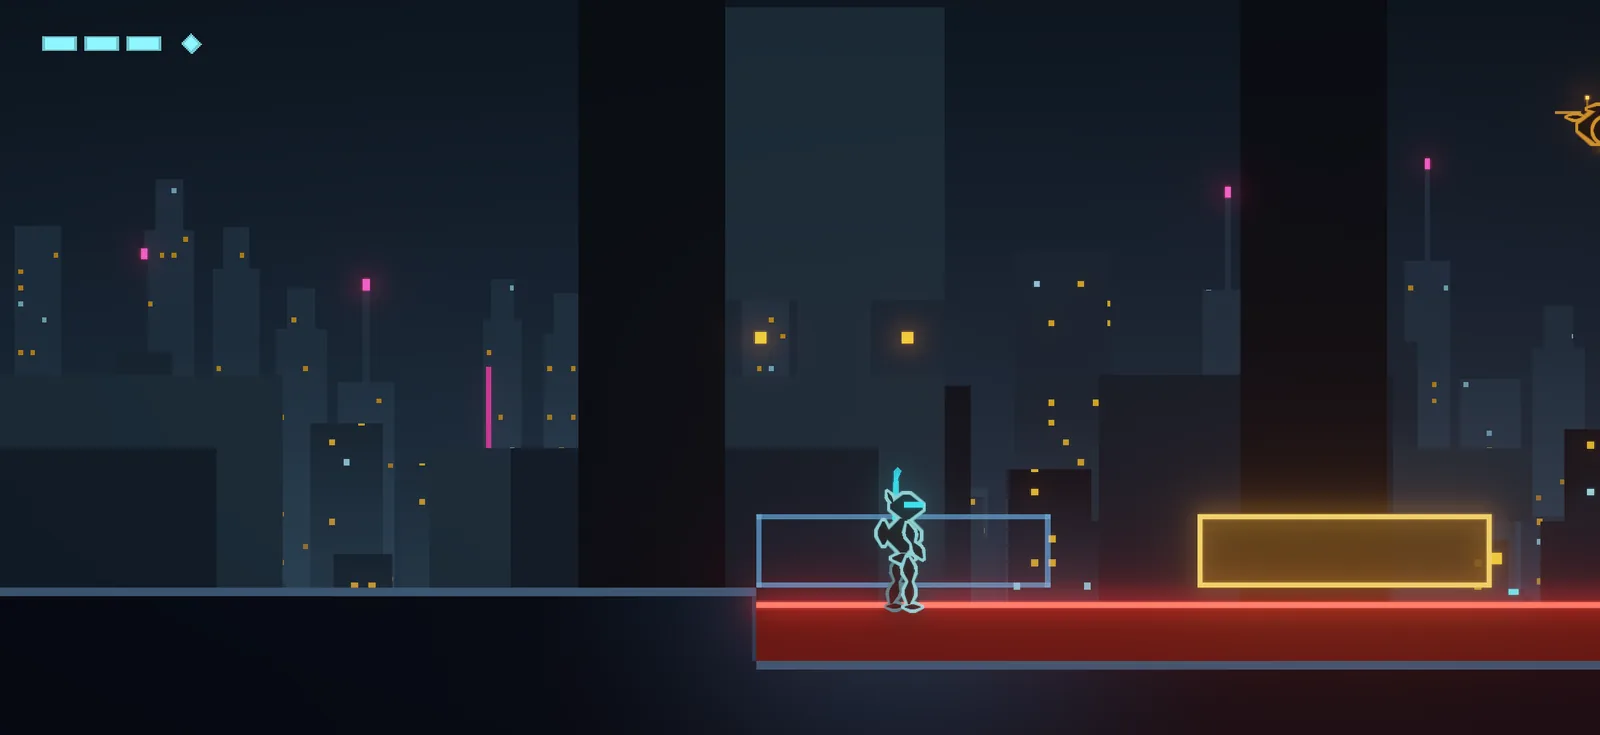
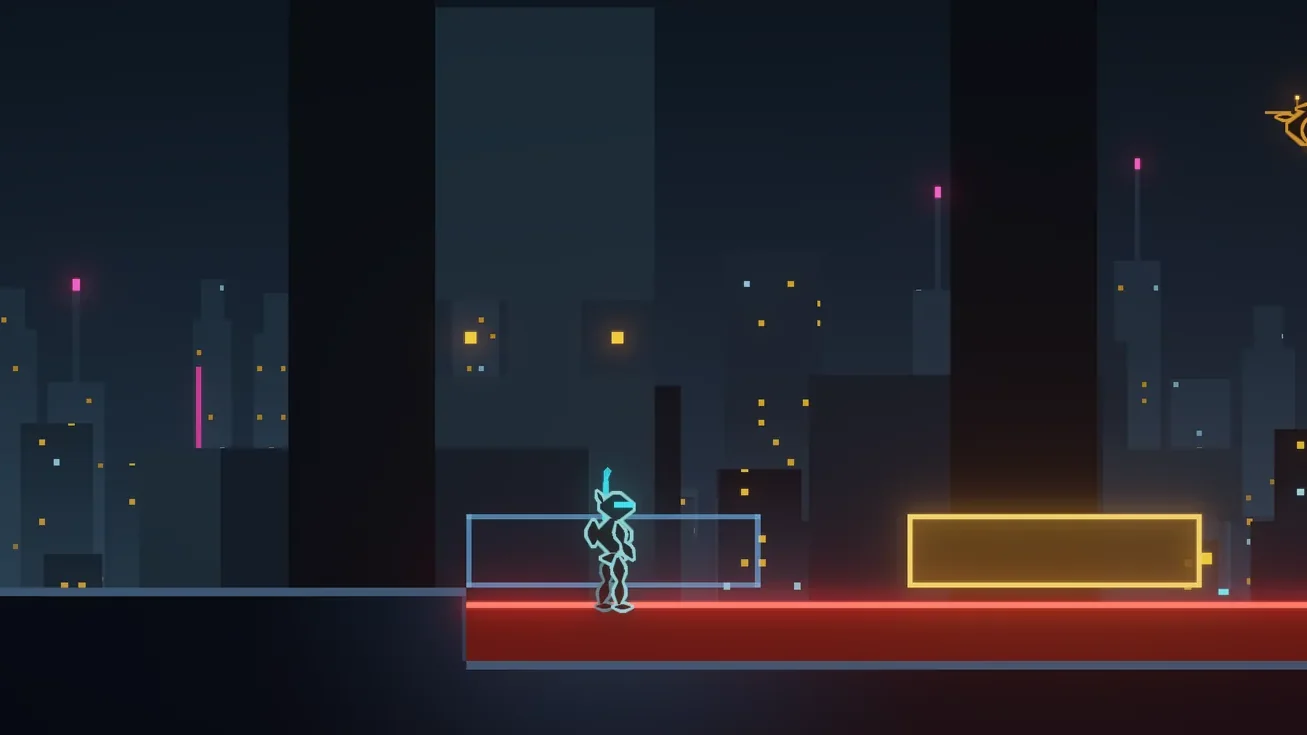
Fracture 소개 페이지 리뉴얼 — 갤러리 16:9 정리, 설치 프로그램 안내, 편의 기능 · 패드 조작표, 접히는 릴리스 노트
- 갤러리: 전부 16:9로 잘라 검은 띠 없앰, 캐릭터 시트(lineup) · 빈 대사 상자가 찍힌 s_camp 뺌,
  첫 장을 히어로와 다른 장면(에코 헌터)으로, 화면과 어긋난 설명(장치 "가동") 고침,
  "0.9.4부터 적 · 보스 그림이 바뀜" 안내
- 받기: zip 안내 → 설치 프로그램 + 게임 안 업데이트(0.9.5부터), zip판은 릴리스 페이지로
- 편의 기능 절(자동 저장 · 게임 안 업데이트 · 키 바꾸기/패드 · 흔들림/번쩍임 · 화면비 · 언어 — 0.9.5에 있는 것만)
- 조작표에 게임패드 열(Xbox 이름, PlayStation 자리 안내), 휴대폰에서는 한 줄 두 단
- 릴리스 노트는 420px에서 접고 "전체 보기"
- 사이드바 중복 캡슐 그림 뺌, 업데이트 · 첫 공개 날짜, 화면 · 인터넷 요구 사항
- "첫 공개 베타" → "공개 베타"(카드 배너 포함)

Claude-Session: https://claude.ai/code/session_01VvaDwK54oNa3WgBqgi2gJD

diff --git a/p/fracture/index.html b/p/fracture/index.html
@@ -4,9 +4,9 @@
 <meta charset="utf-8">
 <meta name="viewport" content="width=device-width, initial-scale=1">
 <title>Fracture · 2D 메트로배니아</title>
-<meta name="description" content="되돌리려다, 시간을 부숴 버렸다. 시간을 건너뛰고 멈추고 되감으며 무너진 기계도시를 가로지르는 2D 플랫포머 메트로배니아. Windows용 첫 공개 베타.">
+<meta name="description" content="되돌리려다, 시간을 부숴 버렸다. 시간을 건너뛰고 멈추고 되감으며 무너진 기계도시를 가로지르는 2D 플랫포머 메트로배니아. Windows용 공개 베타, 무료.">
 <meta property="og:type" content="website">
-<meta property="og:title" content="Fracture — 첫 공개 베타">
+<meta property="og:title" content="Fracture — 공개 베타">
 <meta property="og:description" content="되돌리려다, 시간을 부숴 버렸다. 시간을 건너뛰고 멈추고 되감으며 무너진 기계도시를 가로지르는 2D 메트로배니아.">
 <meta property="og:image" content="https://yh-yeop.github.io/assets/fracture/og.jpg">
 <meta property="og:url" content="https://yh-yeop.github.io/p/fracture/">
@@ -39,14 +39,14 @@
 
 <header class="hero">
   <div class="wrap hero-inner">
-    <p class="kicker">2D 플랫포머 · 메트로배니아 <span class="badge">첫 공개 베타</span></p>
+    <p class="kicker">2D 플랫포머 · 메트로배니아 <span class="badge">공개 베타</span></p>
     <h1 class="logo" data-text="FRACTURE">FRACTURE</h1>
     <p class="tagline">되돌리려다, 시간을 부숴 버렸다.</p>
     <p class="lede">시간을 건너뛰고, 멈추고, 되감으며 무너진 기계도시를 가로지른다.</p>
     <div class="cta">
       <a class="btn primary big" id="dl-hero" href="https://github.com/yh-yeop/releases/releases?q=Fracture">
         <svg viewBox="0 0 24 24" fill="none" stroke="currentColor" stroke-width="2" stroke-linecap="round" stroke-linejoin="round" aria-hidden="true"><path d="M12 4v11M7 10l5 5 5-5M5 20h14"/></svg>
-        <span>베타 받기 <small id="dl-hero-meta">Windows</small></span>
+        <span>베타 받기 <small id="dl-hero-meta">Windows 설치 프로그램</small></span>
       </a>
       <a class="btn ghost big" href="#media">스크린샷 보기</a>
     </div>
@@ -61,7 +61,7 @@
       <h2 id="media-h" class="sr-only">스크린샷</h2>
       <div class="viewer">
         <button class="shot-main" type="button" id="shot-open" aria-label="크게 보기">
-          <img id="shot-img" src="../../assets/fracture/p_chase2.webp" alt="" width="1600" height="727">
+          <img id="shot-img" src="../../assets/fracture/echo_warn.webp" alt="" width="1600" height="900">
         </button>
         <button class="nav prev" type="button" id="shot-prev" aria-label="이전 스크린샷">
           <svg viewBox="0 0 24 24" fill="none" stroke="currentColor" stroke-width="2.4" stroke-linecap="round" stroke-linejoin="round" aria-hidden="true"><path d="M15 6l-6 6 6 6"/></svg>
@@ -72,7 +72,7 @@
       </div>
       <p class="caption" id="shot-caption" aria-live="polite"></p>
       <div class="thumbs" id="thumbs" role="group" aria-label="스크린샷 고르기"></div>
-      <p class="shot-note">개발 중 화면입니다. 베타의 실제 화면과 다를 수 있습니다.</p>
+      <p class="shot-note">0.9.2 베타 때의 화면입니다. 0.9.4부터 적과 보스를 플레이어와 같은 그림체로 다시 그려서, 지금 베타와는 적의 모습이 다릅니다.</p>
     </section>
 
     <section aria-labelledby="about-h" data-embed>
@@ -118,19 +118,34 @@
       </ul>
     </section>
 
+    <section aria-labelledby="qol-h">
+      <h2 id="qol-h">편의 기능</h2>
+      <ul class="qol">
+        <li><b>자동 저장</b> 각 장의 시작과 보스방에 들어설 때 저장되고, 타이틀의 <b>이어하기</b>로 그 자리부터 다시 시작합니다.</li>
+        <li><b>게임 안 업데이트</b> 새 버전이 나오면 타이틀에 <b>업데이트</b>가 뜹니다. 누르면 받아서 설치하고 다시 켭니다.</li>
+        <li><b>키 바꾸기 · 게임패드</b> 모든 조작 키를 설정에서 바꿀 수 있고, 메뉴까지 게임패드만으로 다룰 수 있습니다.</li>
+        <li><b>화면 흔들림 · 번쩍임</b> 둘 다 0~100%로 줄이거나 끌 수 있습니다.</li>
+        <li><b>화면</b> 전체 화면과 창 모드, 창 크기를 고릅니다. 16:9가 아닌 화면에서는 위아래나 양옆을 비워 16:9로 맞춥니다.</li>
+        <li><b>언어</b> 한국어와 영어.</li>
+      </ul>
+    </section>
+
     <section aria-labelledby="ctrl-h">
       <h2 id="ctrl-h">조작</h2>
       <div class="controls">
-        <dl>
-          <div><dt>이동</dt><dd><kbd>W</kbd><kbd>A</kbd><kbd>S</kbd><kbd>D</kbd> <span class="or">또는</span> 방향키</dd></div>
-          <div><dt>점프</dt><dd><kbd>Space</kbd></dd></div>
-          <div><dt>시간 도약 (대시)</dt><dd><kbd>Shift</kbd></dd></div>
-          <div><dt>공격 · 탄 반사</dt><dd><kbd>마우스 왼쪽</kbd> <span class="or">또는</span> <kbd>J</kbd></dd></div>
-          <div><dt>시간 앵커</dt><dd><kbd>마우스 오른쪽</kbd> <span class="or">또는</span> <kbd>K</kbd></dd></div>
-          <div><dt>상호작용</dt><dd><kbd>E</kbd></dd></div>
-          <div><dt>일시정지</dt><dd><kbd>Esc</kbd></dd></div>
-        </dl>
-        <p class="ctrl-note">게임 중 되찾는 능력의 키는 처음 얻을 때 안내 카드로 알려 줍니다. 조작 키는 설정에서 바꿀 수 있고, 게임패드도 지원합니다.</p>
+        <table>
+          <thead><tr><th scope="col">동작</th><th scope="col">키보드 · 마우스</th><th scope="col">게임패드</th></tr></thead>
+          <tbody>
+            <tr><th scope="row">이동</th><td><kbd>W</kbd><kbd>A</kbd><kbd>S</kbd><kbd>D</kbd> <span class="or">또는</span> 방향키</td><td>왼쪽 스틱 <span class="or">또는</span> 방향 패드</td></tr>
+            <tr><th scope="row">점프</th><td><kbd>Space</kbd></td><td><kbd>A</kbd></td></tr>
+            <tr><th scope="row">시간 도약 (대시)</th><td><kbd>Shift</kbd></td><td><kbd>X</kbd> <span class="or">또는</span> <kbd>RT</kbd></td></tr>
+            <tr><th scope="row">공격 · 탄 반사</th><td><kbd>마우스 왼쪽</kbd> <span class="or">또는</span> <kbd>J</kbd></td><td><kbd>Y</kbd> <span class="or">또는</span> <kbd>RB</kbd></td></tr>
+            <tr><th scope="row">시간 앵커</th><td><kbd>마우스 오른쪽</kbd> <span class="or">또는</span> <kbd>K</kbd></td><td><kbd>LB</kbd></td></tr>
+            <tr><th scope="row">상호작용</th><td><kbd>E</kbd></td><td><kbd>B</kbd></td></tr>
+            <tr><th scope="row">일시정지</th><td><kbd>Esc</kbd></td><td><kbd>Start</kbd></td></tr>
+          </tbody>
+        </table>
+        <p class="ctrl-note">게임패드 버튼은 Xbox 이름입니다. PlayStation 패드는 같은 자리 버튼(A ×, B ○, X □, Y △)을 쓰세요. 게임 중 되찾는 능력의 키는 처음 얻을 때 안내 카드로 알려 줍니다.</p>
       </div>
     </section>
 
@@ -139,15 +154,11 @@
       <div class="notes" id="notes">
         <p class="muted">불러오는 중…</p>
       </div>
+      <button class="btn more" type="button" id="notes-more" aria-controls="notes" aria-expanded="false" hidden>릴리스 노트 전체 보기</button>
     </section>
   </div>
 
   <aside class="col-side" aria-label="게임 정보">
-    <div class="panel capsule">
-      <img src="../../assets/fracture/device_overload-t.webp" alt="" width="400" height="184" loading="lazy">
-      <p>시간 간섭 실험에서 탈주한 실험체 001이 무너진 시간 속에서 기계도시를 가로지르는 2D 플랫포머 메트로배니아.</p>
-    </div>
-
     <div class="panel download" id="download">
       <h2>베타 받기</h2>
       <a class="btn primary block" id="dl-side" href="https://github.com/yh-yeop/releases/releases?q=Fracture">
@@ -155,12 +166,13 @@
         <span id="dl-side-label">Windows용 받기</span>
       </a>
       <ol class="steps">
-        <li>zip을 받아 압축을 풉니다.</li>
-        <li>폴더 안의 <code>Fracture.exe</code>를 실행합니다.</li>
+        <li>설치 프로그램을 받아 실행합니다. 관리자 권한은 필요 없습니다.</li>
+        <li>시작 메뉴(원하면 바탕화면)의 <b>Fracture</b>로 실행합니다.</li>
       </ol>
-      <p class="small">설치 프로그램과 자동 업데이트는 없습니다. 서명하지 않은 실행 파일이라 SmartScreen 경고가 뜨면 <b>추가 정보 → 실행</b>을 누르세요.</p>
+      <p class="small">한 번 설치하면 다음 버전부터는 게임 안에서 업데이트됩니다. 서명하지 않은 설치 파일이라 SmartScreen 경고가 뜨면 <b>추가 정보 → 실행</b>을 누르세요.</p>
+      <p class="small">설치 없이 쓰는 zip판도 <a id="rel-zip" href="https://github.com/yh-yeop/releases/releases?q=Fracture">릴리스 페이지</a>에 있습니다(게임 안 업데이트는 안 됨).</p>
       <div class="sha" id="sha" hidden>
-        <span class="small">SHA-256</span>
+        <span class="small">설치 파일 SHA-256</span>
         <code id="sha-val"></code>
         <button class="btn tiny" type="button" id="sha-copy">복사</button>
       </div>
@@ -170,8 +182,9 @@
     <div class="panel">
       <dl class="info">
         <div><dt>장르</dt><dd>2D 플랫포머 · 메트로배니아</dd></div>
-        <div><dt>버전</dt><dd id="info-ver">0.9.0 베타</dd></div>
-        <div><dt>공개일</dt><dd id="info-date">2026년 11월 2일</dd></div>
+        <div><dt>버전</dt><dd id="info-ver">0.9.5 베타</dd></div>
+        <div><dt>업데이트</dt><dd id="info-date">2026년 11월 9일</dd></div>
+        <div><dt>첫 공개</dt><dd>2026년 11월 2일</dd></div>
         <div><dt>개발</dt><dd><a href="../../">yeop</a></dd></div>
         <div><dt>엔진</dt><dd>Unity 6</dd></div>
         <div><dt>언어</dt><dd>한국어, 영어</dd></div>
@@ -187,6 +200,8 @@
       <dl class="info">
         <div><dt>운영체제</dt><dd>Windows 10 / 11 (64비트)</dd></div>
         <div><dt>입력</dt><dd>키보드 · 마우스, 게임패드</dd></div>
+        <div><dt>화면</dt><dd>16:9 기준, 다른 비율은 여백으로 맞춤</dd></div>
+        <div><dt>인터넷</dt><dd>필요 없음 (새 버전 확인에만 씀)</dd></div>
       </dl>
     </div>
 
@@ -195,6 +210,7 @@
       <ul class="small plain">
         <li>프롤로그부터 엔딩까지 전부 들어 있습니다.</li>
         <li>보스 난이도와 예고 시간은 계속 다듬는 중입니다.</li>
+        <li>진행은 각 장의 시작과 보스방에서 저장됩니다. 장 중간에 끄면 그 장의 처음(또는 보스전)부터 이어집니다.</li>
         <li><kbd>F3</kbd>은 개발용 디버그 창입니다. 정상 진행에는 필요 없습니다.</li>
       </ul>
     </div>

diff --git a/p/fracture/fracture.css b/p/fracture/fracture.css
@@ -106,7 +106,7 @@ h2 small { font-weight: 500; color: var(--muted); font-size: .875rem; margin-lef
 /* gallery */
 .viewer { position: relative; border-radius: var(--radius); overflow: hidden; background: #000; border: 1px solid var(--line); }
 .shot-main { display: block; width: 100%; padding: 0; border: 0; background: #000; cursor: zoom-in; aspect-ratio: 16 / 9; }
-.shot-main img { width: 100%; height: 100%; object-fit: contain; display: block; }
+.shot-main img { width: 100%; height: 100%; object-fit: cover; display: block; }
 .nav {
   position: absolute; top: 50%; transform: translateY(-50%); width: 44px; height: 44px; border-radius: 50%;
   display: grid; place-items: center; border: 1px solid rgba(255,255,255,.25); background: rgba(8,11,22,.6); color: #fff; cursor: pointer;
@@ -137,12 +137,19 @@ h2 small { font-weight: 500; color: var(--muted); font-size: .875rem; margin-lef
 .features h3 { margin: 0 0 4px; font-size: 1.0625rem; }
 .features p { margin: 0; color: var(--muted); font-size: .9375rem; }
 
+/* convenience */
+.qol { list-style: none; margin: 0; padding: 0; display: grid; grid-template-columns: repeat(2, minmax(0, 1fr)); gap: 0 28px; }
+.qol li { padding: 12px 0; border-top: 1px solid var(--line); color: var(--muted); font-size: .9375rem; }
+.qol li > b:first-child { display: block; color: var(--text); font-size: 1rem; margin-bottom: 2px; }
+.qol li b { color: var(--text); }
+
 /* controls */
 .controls { padding: 18px; border-radius: var(--radius); background: var(--panel); border: 1px solid var(--line); }
-.controls dl { margin: 0; display: grid; grid-template-columns: repeat(2, minmax(0, 1fr)); gap: 10px 24px; }
-.controls dl div { display: flex; justify-content: space-between; align-items: center; gap: 12px; flex-wrap: wrap; padding-bottom: 10px; border-bottom: 1px solid var(--line); }
-.controls dt { color: var(--muted); font-size: .9375rem; }
-.controls dd { margin: 0; text-align: right; }
+.controls table { width: 100%; border-collapse: collapse; font-size: .9375rem; }
+.controls thead th { text-align: left; font-size: .8125rem; font-weight: 600; color: var(--muted); padding: 0 8px 8px 0; border-bottom: 1px solid var(--line); }
+.controls tbody th { text-align: left; font-weight: 500; color: var(--muted); white-space: nowrap; }
+.controls tbody th, .controls td { padding: 8px 8px 8px 0; border-bottom: 1px solid var(--line); vertical-align: middle; }
+.controls tbody tr:last-child > * { border-bottom: 0; }
 .or { color: var(--muted); font-size: .8125rem; margin: 0 2px; }
 .ctrl-note { margin: 14px 0 0; font-size: .875rem; color: var(--muted); }
 
@@ -156,14 +163,14 @@ h2 small { font-weight: 500; color: var(--muted); font-size: .875rem; margin-lef
 .notes ul, .notes ol { padding-left: 1.4em; }
 .notes code { background: #1a2238; padding: .1em .35em; border-radius: 4px; overflow-wrap: anywhere; }
 .notes .octicon { display: none; }
+.notes.folded { max-height: 420px; overflow: hidden; position: relative;
+  -webkit-mask-image: linear-gradient(180deg, #000 70%, transparent); mask-image: linear-gradient(180deg, #000 70%, transparent); }
+.btn.more { margin-top: 10px; }
 
 /* sidebar */
 .col-side { display: flex; flex-direction: column; gap: 14px; }
 .panel { padding: 18px; border-radius: var(--radius); background: var(--panel); border: 1px solid var(--line); }
 .panel h2 { font-size: 1rem; margin-bottom: 12px; }
-.capsule { padding: 0; overflow: hidden; }
-.capsule img { display: block; width: 100%; height: auto; }
-.capsule p { margin: 0; padding: 14px 18px 18px; font-size: .9375rem; color: #cfd6e8; }
 .download { border-color: rgba(94, 242, 255, .45); box-shadow: 0 0 0 1px rgba(94, 242, 255, .08) inset; }
 .steps { margin: 14px 0 10px; padding-left: 1.3em; font-size: .9375rem; }
 .steps li + li { margin-top: 2px; }
@@ -205,7 +212,15 @@ p.small { margin: 0 0 10px; }
   .hero-inner { padding-top: 120px; padding-bottom: 32px; }
   .cta .btn { flex: 1 1 100%; }
   .features { grid-template-columns: minmax(0, 1fr); }
-  .controls dl { grid-template-columns: minmax(0, 1fr); }
+  .qol { grid-template-columns: minmax(0, 1fr); }
+  .controls { padding: 14px; }
+  .controls thead { display: none; }
+  .controls tr { display: grid; grid-template-columns: minmax(0, 1fr) auto; gap: 2px 12px; padding: 8px 0; border-bottom: 1px solid var(--line); }
+  .controls tbody tr:last-child { border-bottom: 0; }
+  .controls tbody th { grid-row: span 2; align-self: center; white-space: normal; }
+  .controls tbody th, .controls td { padding: 0; border: 0; text-align: right; }
+  .controls tbody th { text-align: left; }
+  .controls td:last-child::before { content: "패드 "; color: var(--muted); font-size: .75rem; }
   .thumb { width: 104px; }
   .nav { width: 38px; height: 38px; }
   .col-side { display: flex; }

diff --git a/p/fracture/page.js b/p/fracture/page.js
@@ -2,18 +2,17 @@
 import { appRelease, releaseNotes, cleanHTML, formatMB, versionLabel } from '../../js/github.js';
 
 const IMG = '../../assets/fracture/';
+// 모두 16:9 (tools/site_shots.py — Fracture 저장소). 첫 장은 히어로 그림과 다른 장면으로
 const SHOTS = [
-  ['p_chase2', '천장을 뚫고 떨어진 진압 병기. 시간 앵커로 몸을 당겨 위로 달아난다.'],
-  ['device_overload', '시간 간섭 장치 — 가동. 그리고 출력 한계 초과.'],
   ['echo_warn', '첫 보스 에코 헌터. 몇 초 전의 내 움직임을 되풀이하며 쏜다.'],
+  ['p_chase2', '천장을 뚫고 떨어진 진압 병기. 시간 앵커로 몸을 당겨 위로 달아난다.'],
   ['self_echo', '에코는 과거의 나다. 같은 길, 같은 박자로 덮쳐 온다.'],
-  ['sniper', '잔상 저격수. 멈춰 서 있으면 맞는다 — 계속 움직일 것.'],
+  ['sniper', '잔상 저격수의 조준선. 베기 타이밍을 맞추면 탄을 되받아친다.'],
   ['era_future', '과거와 미래의 발판이 번갈아 나타나는 시간대 블록.'],
   ['p_chase5', '추격은 위로, 더 위로.'],
-  ['m_gap1', '외곽 폐허. 건널 수 없는 틈 아래로 불빛이 새어 나온다.'],
+  ['device_overload', '시간 간섭 장치 — 대기. 모든 것을 되돌리려고, 이곳으로 돌아왔다.'],
+  ['m_gap1', '외곽 폐허. 화이트리스트 스캐너는 더 이상 응답하지 않는다.'],
   ['z_take', '추락한 수송기. 아직 살아 있는 추진 셀을 되찾는다.'],
-  ['s_camp', '폐허에 남은 글씨 — 우리는 아직 여기 있다.'],
-  ['lineup', '001, 그리고 도시의 기계들.'],
 ];
 
 const $ = s => document.querySelector(s);
@@ -38,7 +37,7 @@ function show(i, { focusThumb = false } = {}) {
 
 $('#thumbs').innerHTML = SHOTS.map(([name, caption], i) =>
   `<button class="thumb" type="button" data-i="${i}" aria-label="${i + 1}번째 스크린샷: ${caption}">
-     <img src="${IMG}${name}-t.webp" alt="" width="400" height="225" loading="lazy">
+     <img src="${IMG}${name}-t.webp" alt="" width="400" height="225" loading="lazy" decoding="async">
    </button>`).join('');
 $('#thumbs').addEventListener('click', e => { const b = e.target.closest('.thumb'); if (b) show(+b.dataset.i); });
 $('#thumbs').addEventListener('keydown', e => {
@@ -70,11 +69,12 @@ async function loadRelease() {
   const win = rel.assets.find(a => a.label === 'Windows');
   const ver = versionLabel(rel.version);
   if (win) {
+    const kind = /\.exe$/i.test(win.name) ? '설치 프로그램' : 'zip';
     for (const id of ['#dl-hero', '#dl-side']) {
       $(id).href = win.url;
-      $(id).setAttribute('aria-label', `Fracture ${ver} Windows용 받기 (zip, ${formatMB(win.size)})`);
+      $(id).setAttribute('aria-label', `Fracture ${ver} Windows용 받기 (${kind}, ${formatMB(win.size)})`);
     }
-    $('#dl-hero-meta').textContent = `Windows · ${formatMB(win.size)}`;
+    $('#dl-hero-meta').textContent = `Windows ${kind} · ${formatMB(win.size)}`;
     $('#dl-side-label').textContent = `Windows용 받기 · ${formatMB(win.size)}`;
     if (win.sha256) {
       $('#sha').hidden = false;
@@ -85,9 +85,25 @@ async function loadRelease() {
   $('#info-ver').textContent = ver;
   $('#info-date').textContent = fmtDate(rel.date);
   $('#rel-link').href = rel.page;
+  $('#rel-zip').href = rel.page;
   $('#notes-ver').textContent = ver;
   const notes = await releaseNotes(rel, 'releases');
   $('#notes').innerHTML = notes ? cleanHTML(notes, 'releases') : '<p class="muted">이 버전에는 릴리스 노트가 없습니다.</p>';
+  foldNotes();
+}
+
+// 긴 릴리스 노트는 접어 두고 "전체 보기"로 편다 (접힌 높이는 CSS .notes.folded)
+function foldNotes() {
+  const box = $('#notes'), more = $('#notes-more');
+  box.classList.add('folded');
+  if (box.scrollHeight <= box.clientHeight + 40) { box.classList.remove('folded'); return; }
+  more.hidden = false;
+  more.addEventListener('click', () => {
+    const open = box.classList.toggle('folded') === false;
+    more.setAttribute('aria-expanded', open);
+    more.textContent = open ? '릴리스 노트 접기' : '릴리스 노트 전체 보기';
+    if (!open) box.scrollIntoView({ block: 'nearest' });
+  });
 }
 
 loadRelease().catch(() => {

diff --git a/js/data.js b/js/data.js
@@ -121,7 +121,7 @@ export const PROJECTS = [
     id: 'fracture', cat: 'game', title: 'Fracture', icon: 'assets/icons/fracture.png',
     repos: [], release: { repo: 'releases', prefix: 'Fracture', pre: true }, closed: true, page: 'p/fracture/',
     featured: {
-      kicker: '첫 공개',
+      kicker: '공개 베타',
       tagline: '시간을 건너뛰고, 멈추고, 되감으며 무너진 기계도시를 탐험하는 2D 메트로배니아.',
       image: 'assets/fracture/hero.webp',
     },

diff --git a/README.md b/README.md
@@ -14,7 +14,7 @@
 | `js/github.js` | GitHub API(10분 세션 캐시), 최신 릴리스 고르기, README · 릴리스 노트 HTML 정리 |
 | `js/main.js` | 첫 화면 동작 |
 | `assets/icons/` | 프로젝트 아이콘 (`<id>.svg/png/jpg`) |
-| `p/<id>/` | 프로젝트 서브페이지 (`p/fracture/` — 게임 소개, 갤러리 · 최신 베타 · 릴리스 노트 / `p/sanupcraft/` — 모드팩 소개, 갤러리 · sanupcraft 저장소의 최신 테스트 베타 · 설치 방법 / `p/talicraft/` — 친구 서버 전용 모드 소개, 스크립트 · API 호출 없음, 갤러리 크게 보기는 `popover` / `p/fishingcraft/` — 소스 비공개 낚시 모드팩 소개(개발 중), 스크립트 · API 호출 없음, 히어로 그림 · 대표 이미지는 fishingcraft 저장소 `tools/make_icon.py` · `make_og.py`로 만듦 / `p/mcserver/` — 마인크래프트 서버 관리 · 모드팩 업데이트(소스 비공개 Windows 프로그램 둘) 소개, 스크립트 · API 호출 없음, 받기 버튼은 releases 저장소 목록(`?q=MCServerManager` · `?q=ModpackUpdater`), 플레이어용 부분은 `#updater` — 카드 `modpackupdater`의 `page`가 이 주소, 스크린샷은 server-gui `web/index.html?mock`(1280×820) · `client.html?mock`(820×620) 화면) / `p/meso/` — 메소노믹스(웹앱 + Windows · Android 설치판) 소개, 휴대폰 화면 4장은 meso_calcul 저장소 `docs/openapi/screenshot-2.jpg`에서 잘라 냄(528×1086 + `-t` 264px), 대표 이미지 `og.jpg`는 `screenshot-1.jpg`를 1200×600으로, 받기 버튼은 releases `index.json`의 `MesoCalc` windows · android) |
+| `p/<id>/` | 프로젝트 서브페이지 (`p/fracture/` — 게임 소개, 갤러리(16:9, Fracture 저장소 `tools/site_shots.py`로 만듦) · 편의 기능 · 키보드/패드 조작표 · 최신 베타(설치 프로그램) · 접히는 릴리스 노트 / `p/sanupcraft/` — 모드팩 소개, 갤러리 · sanupcraft 저장소의 최신 테스트 베타 · 설치 방법 / `p/talicraft/` — 친구 서버 전용 모드 소개, 스크립트 · API 호출 없음, 갤러리 크게 보기는 `popover` / `p/fishingcraft/` — 소스 비공개 낚시 모드팩 소개(개발 중), 스크립트 · API 호출 없음, 히어로 그림 · 대표 이미지는 fishingcraft 저장소 `tools/make_icon.py` · `make_og.py`로 만듦 / `p/mcserver/` — 마인크래프트 서버 관리 · 모드팩 업데이트(소스 비공개 Windows 프로그램 둘) 소개, 스크립트 · API 호출 없음, 받기 버튼은 releases 저장소 목록(`?q=MCServerManager` · `?q=ModpackUpdater`), 플레이어용 부분은 `#updater` — 카드 `modpackupdater`의 `page`가 이 주소, 스크린샷은 server-gui `web/index.html?mock`(1280×820) · `client.html?mock`(820×620) 화면) / `p/meso/` — 메소노믹스(웹앱 + Windows · Android 설치판) 소개, 휴대폰 화면 4장은 meso_calcul 저장소 `docs/openapi/screenshot-2.jpg`에서 잘라 냄(528×1086 + `-t` 264px), 대표 이미지 `og.jpg`는 `screenshot-1.jpg`를 1200×600으로, 받기 버튼은 releases `index.json`의 `MesoCalc` windows · android) |
 | `assets/<id>/` | 서브페이지 이미지 (스크린샷 1600px webp + `-t` 썸네일 400px) |
 | `install.js` | 웹 프로젝트가 같이 쓰는 "앱으로 설치" 안내 (아래) |
 | `share.js` | 첫 화면 · 서브페이지의 "공유" 버튼(`[data-share]`): 지금 주소(`#p/<id>` · `#game` 포함)를 링크 복사 · 다른 앱으로 공유. 터치 기기에서 공유 창을 지원하면 바로 띄운다 |
